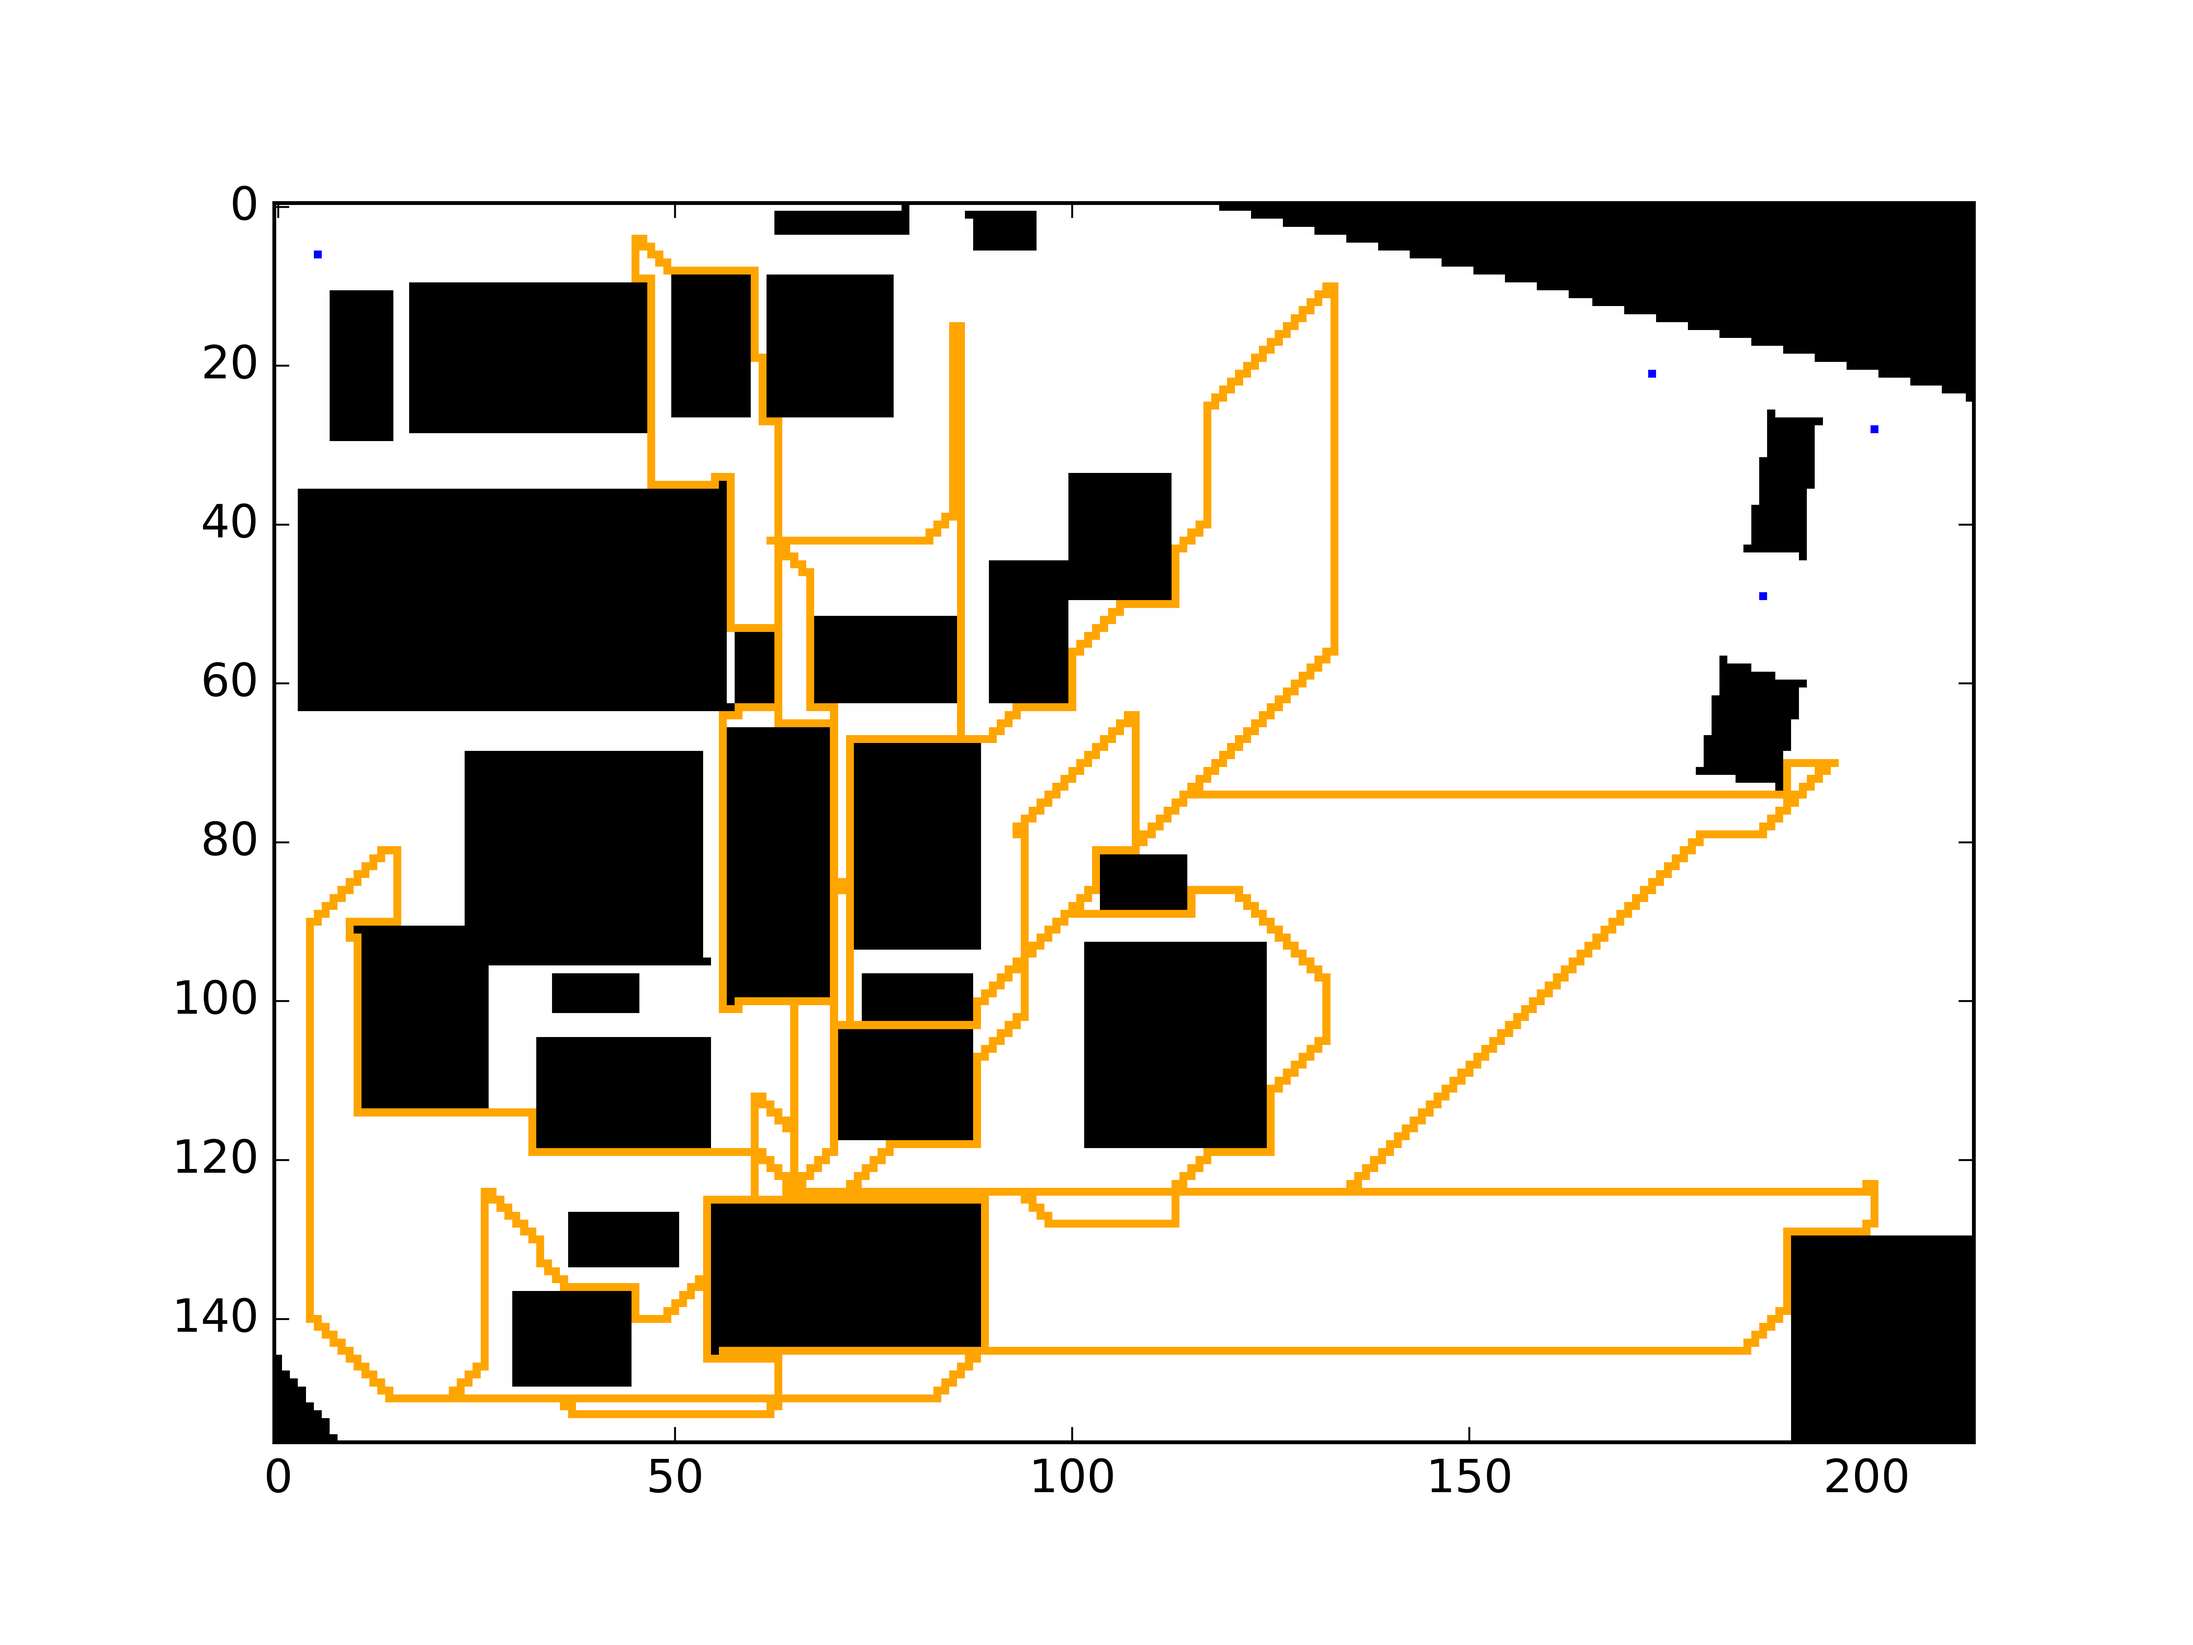
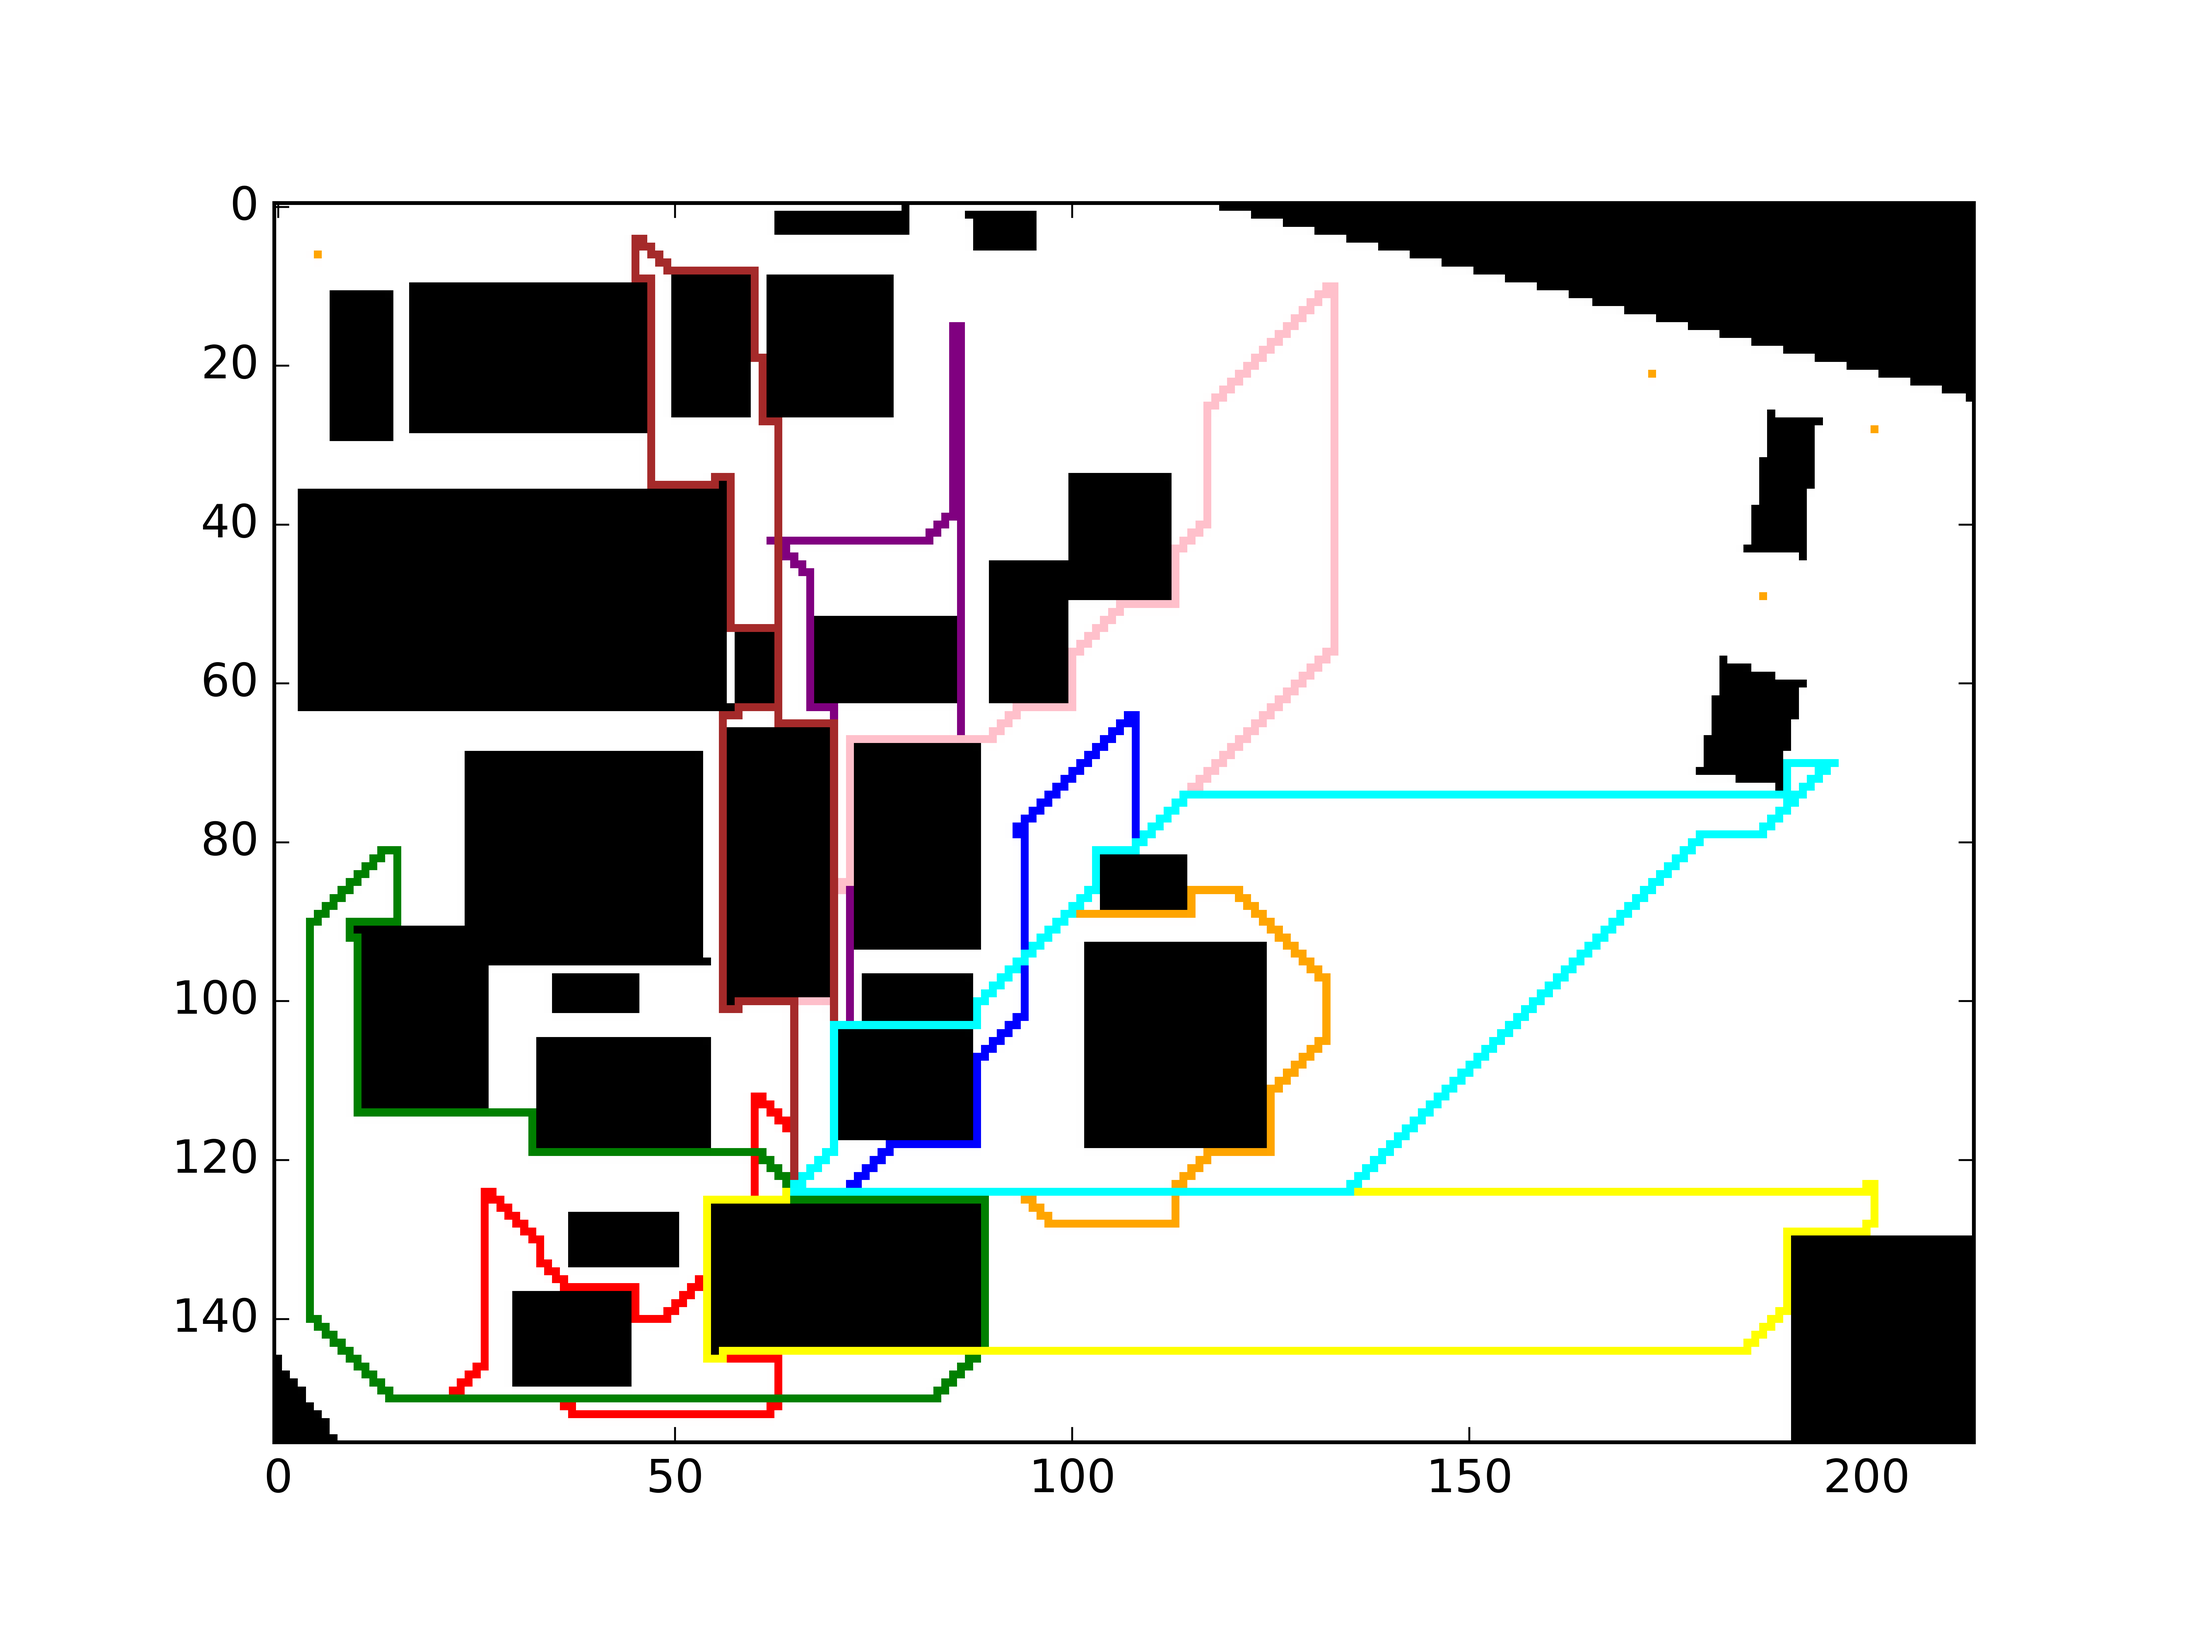
greedy + patrol plotting ok

diff --git a/master/scripts/planner/planner.py b/master/scripts/planner/planner.py
@@ -31,6 +31,7 @@ class Solver:
         self.mapped_paths = self.mapper.world
         self.battery_plan = [0 for d in range(self.nb_drone)]
         self.plan = [[] for d in range(self.nb_drone)]
+        self.cut_plan = []
 
     def detail_plan(self):
         """
@@ -40,6 +41,18 @@ class Solver:
         for d in range(self.nb_drone):
             for s in range(1, len(self.state[d])):
                 self.plan[d] += self.mapper.paths[(self.state[d][s - 1], self.state[d][s])][0]
+            cut_plan = []
+            base = self.state[d][0]
+            tmp = [base]
+            for p in range(1, len(self.plan[d])):
+                point = tuple(reversed(self.plan[d][p]))
+                tmp.append(point)
+                if point == base and len(tmp) > 1:
+                    cut_plan.append(tmp)
+                    tmp = []
+            self.cut_plan.append(cut_plan)
+            print(len(self.cut_plan))
+            print(len(self.cut_plan[0]))
 
     def check_collision(self):
         """
@@ -66,8 +79,9 @@ class Solver:
         Write the drones' paths on the grid
         """
         for d in range(self.nb_drone):
-            for p in self.plan[d]:
-                self.mapped_paths[p[0]][p[1]] = 2 + d
+            for p in range(len(self.cut_plan[d])):
+                for c in self.cut_plan[d][p]:
+                    self.mapped_paths[c[1]][c[0]] = 2 + p
 
     def compute_performance(self):
         """
@@ -88,7 +102,7 @@ class Solver:
 
         #print("Ploting plan")
         #TODO: Add more color to handle more drones
-        cmap = colors.ListedColormap(['white', 'black', 'red', 'orange', 'blue'])
+        cmap = colors.ListedColormap(['white', 'black', 'red', 'orange', 'blue', 'green', 'purple', 'pink', 'yellow', 'brown', 'cyan'])
         self.write_plan()
         plt.imshow(self.mapped_paths, interpolation="none", cmap=cmap)
         save = True
@@ -162,7 +176,8 @@ class GreedyPlanner(Solver):
 
     def compute_plan(self):
         """
-
+        Compute the plan by trying to visit all points by distance order and
+        by returning to base to recharge the battery when necessary.
         """
 
         complete = False
@@ -190,6 +205,8 @@ class GreedyPlanner(Solver):
                             self.state[d].insert(len(self.state[d]) - 1, self.state[d][0])
                             self.battery_plan[d] += battery
                             battery = settings.MAX_BATTERY_UNIT
+            del self.state[d][len(self.state[d]) - 1]
+
 
 def get_computed_path(mapper, nb_drone):
     #SIMULATED ANNEALING

diff --git a/master/scripts/settings.py b/master/scripts/settings.py
@@ -3,10 +3,10 @@ Define global variables for the overall system
 """
 
 #Path variables
-TEMPLATE_PATH = "/home/scom/Documents/opu_surveillance_system/monitoring/master/"
-STATIC_PATH = "/home/scom/Documents/opu_surveillance_system/monitoring/static/"
-#TEMPLATE_PATH = "/home/jordan/Documents/tobikoma/monitoring/master/"
-#STATIC_PATH = "/home/jordan/Documents/tobikoma/monitoring/static"
+#TEMPLATE_PATH = "/home/scom/Documents/opu_surveillance_system/monitoring/master/"
+#STATIC_PATH = "/home/scom/Documents/opu_surveillance_system/monitoring/static/"
+TEMPLATE_PATH = "/home/jordan/Documents/tobikoma/monitoring/master/"
+STATIC_PATH = "/home/jordan/Documents/tobikoma/monitoring/static"
 
 #Map Converter
 X_SIZE = int(858 / 4)
